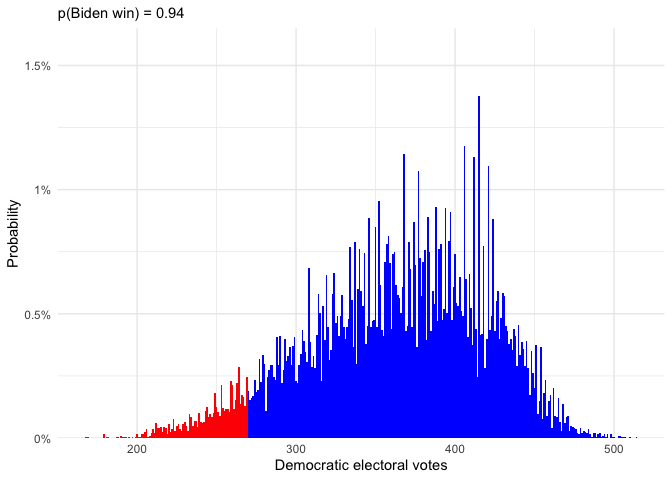
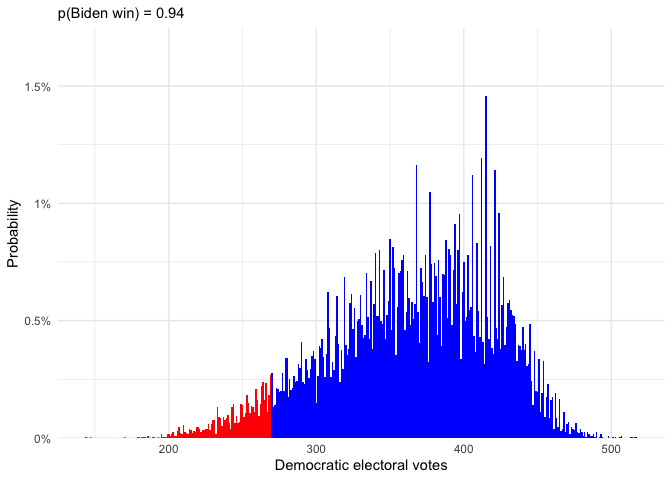
Add changes

diff --git a/README.md b/README.md
@@ -117,7 +117,7 @@ Automated report:
 
 These graphs are updated hourly with new polls.
 
-Last updated on **August 04, 2020 at 11:15 AM EDT.**
+Last updated on **August 04, 2020 at 12:14 PM EDT.**
 
 ### National polling average
 
@@ -140,16 +140,16 @@ In table form…
 
 | State | Biden margin, uncertainty interval (%) | State | Biden margin, … (%) |
 |:------|:---------------------------------------|:------|:--------------------|
-| MN    | 10 \[-4, 23\]                          | IA    | 0 \[-14, 14\]       |
-| MI    | 9 \[-5, 22\]                           | TX    | 0 \[-13, 14\]       |
-| NV    | 9 \[-4, 23\]                           | AK    | -4 \[-17, 10\]      |
+| MN    | 10 \[-4, 23\]                          | GA    | 1 \[-13, 14\]       |
+| MI    | 9 \[-5, 22\]                           | IA    | 0 \[-14, 14\]       |
+| NV    | 9 \[-4, 23\]                           | AK    | -3 \[-17, 10\]      |
 | WI    | 8 \[-6, 21\]                           | SC    | -5 \[-19, 8\]       |
 | PA    | 7 \[-6, 21\]                           | UT    | -5 \[-19, 8\]       |
-| FL    | 6 \[-7, 20\]                           | MO    | -6 \[-19, 8\]       |
-| AZ    | 5 \[-9, 18\]                           | MT    | -8 \[-21, 6\]       |
-| NC    | 3 \[-11, 17\]                          | IN    | -8 \[-21, 6\]       |
-| OH    | 1 \[-13, 14\]                          | KS    | -8 \[-22, 6\]       |
-| GA    | 1 \[-13, 14\]                          | MS    | -11 \[-24, 3\]      |
+| FL    | 6 \[-7, 20\]                           | MO    | -5 \[-19, 8\]       |
+| AZ    | 4 \[-9, 18\]                           | MT    | -8 \[-21, 6\]       |
+| NC    | 3 \[-11, 16\]                          | IN    | -8 \[-21, 6\]       |
+| TX    | 1 \[-13, 14\]                          | KS    | -8 \[-22, 6\]       |
+| OH    | 1 \[-13, 14\]                          | MS    | -11 \[-24, 3\]      |
 
 **The rest of the states:**
 
@@ -157,19 +157,19 @@ In table form…
 |:------|:---------------------------------------|:------|:--------------------|
 | DC    | 77 \[63, 90\]                          | ME    | 12 \[-2, 25\]       |
 | HI    | 34 \[20, 47\]                          | NH    | 12 \[-2, 25\]       |
-| MA    | 32 \[18, 45\]                          | VA    | 11 \[-2, 25\]       |
-| CA    | 32 \[19, 46\]                          | LA    | -11 \[-25, 2\]      |
+| CA    | 33 \[19, 46\]                          | VA    | 11 \[-2, 25\]       |
+| MA    | 32 \[18, 45\]                          | LA    | -11 \[-25, 3\]      |
 | VT    | 31 \[18, 45\]                          | NE    | -11 \[-25, 2\]      |
 | MD    | 28 \[14, 42\]                          | TN    | -14 \[-28, -1\]     |
-| NY    | 26 \[12, 39\]                          | SD    | -15 \[-29, -2\]     |
-| WA    | 26 \[12, 40\]                          | AR    | -15 \[-29, -2\]     |
+| NY    | 26 \[12, 39\]                          | AR    | -15 \[-29, -2\]     |
+| WA    | 26 \[13, 40\]                          | SD    | -15 \[-29, -2\]     |
 | IL    | 22 \[8, 35\]                           | KY    | -16 \[-30, -3\]     |
 | RI    | 22 \[8, 35\]                           | ID    | -17 \[-30, -3\]     |
-| NJ    | 20 \[6, 34\]                           | AL    | -17 \[-31, -4\]     |
-| CT    | 20 \[7, 34\]                           | ND    | -20 \[-33, -6\]     |
-| OR    | 18 \[5, 32\]                           | OK    | -22 \[-36, -9\]     |
-| DE    | 16 \[3, 30\]                           | WV    | -26 \[-40, -12\]    |
-| CO    | 14 \[0, 28\]                           | WY    | -28 \[-42, -15\]    |
+| NJ    | 20 \[7, 34\]                           | AL    | -17 \[-31, -3\]     |
+| CT    | 20 \[7, 34\]                           | ND    | -20 \[-34, -6\]     |
+| OR    | 18 \[5, 32\]                           | OK    | -22 \[-36, -8\]     |
+| DE    | 16 \[3, 30\]                           | WV    | -26 \[-40, -13\]    |
+| CO    | 14 \[1, 27\]                           | WY    | -28 \[-42, -15\]    |
 | NM    | 14 \[1, 28\]                           |       |                     |
 
 ### Changes in state averages relative to the national margin
@@ -195,25 +195,25 @@ how often that happens:
 
 | State | Tipping point chance (%) | State | Tipping point chance (%) |
 |:------|-------------------------:|:------|-------------------------:|
-| FL    |                     18.7 | CT    |                      0.4 |
-| PA    |                     10.6 | DE    |                      0.4 |
-| TX    |                      8.9 | IL    |                      0.4 |
-| MI    |                      8.7 | MO    |                      0.4 |
-| NC    |                      6.0 | UT    |                      0.3 |
-| VA    |                      5.9 | AK    |                      0.2 |
-| WI    |                      5.8 | SC    |                      0.2 |
-| OH    |                      5.4 | IN    |                      0.1 |
-| AZ    |                      5.3 | KS    |                      0.1 |
-| MN    |                      5.2 | MS    |                      0.1 |
-| GA    |                      4.0 | MT    |                      0.1 |
-| NV    |                      3.0 | NY    |                      0.1 |
-| CO    |                      2.2 | RI    |                      0.1 |
-| ME    |                      1.6 | WA    |                      0.1 |
-| NH    |                      1.6 | KY    |                      0.0 |
-| IA    |                      1.4 | LA    |                      0.0 |
-| NM    |                      1.3 | MD    |                      0.0 |
-| NJ    |                      0.7 | NE    |                      0.0 |
-| OR    |                      0.7 | TN    |                      0.0 |
+| FL    |                     19.0 | DE    |                      0.5 |
+| PA    |                     10.5 | AK    |                      0.4 |
+| TX    |                      9.4 | CT    |                      0.4 |
+| MI    |                      8.6 | MO    |                      0.4 |
+| NC    |                      6.0 | IL    |                      0.3 |
+| VA    |                      5.8 | UT    |                      0.3 |
+| WI    |                      5.7 | SC    |                      0.2 |
+| AZ    |                      5.6 | IN    |                      0.1 |
+| MN    |                      5.1 | KS    |                      0.1 |
+| OH    |                      5.0 | NY    |                      0.1 |
+| GA    |                      4.2 | RI    |                      0.1 |
+| NV    |                      2.8 | CA    |                      0.0 |
+| CO    |                      2.5 | LA    |                      0.0 |
+| NH    |                      1.6 | MD    |                      0.0 |
+| ME    |                      1.5 | MS    |                      0.0 |
+| IA    |                      1.4 | MT    |                      0.0 |
+| NM    |                      1.3 | NE    |                      0.0 |
+| NJ    |                      0.6 | TN    |                      0.0 |
+| OR    |                      0.6 | WA    |                      0.0 |
 
 ### Electoral college outcomes
 
@@ -233,7 +233,7 @@ electoral college majority:
 | Republicans win the popular vote and electoral college                    |          1 |
 | Republicans win the popular vote, but Democrats win the electoral college |          0 |
 
-The probability the Democrats win the national popular vote is 98.59%.
+The probability the Democrats win the national popular vote is 98.66%.
 
 #### The divide between the electoral college and popular vote
 
